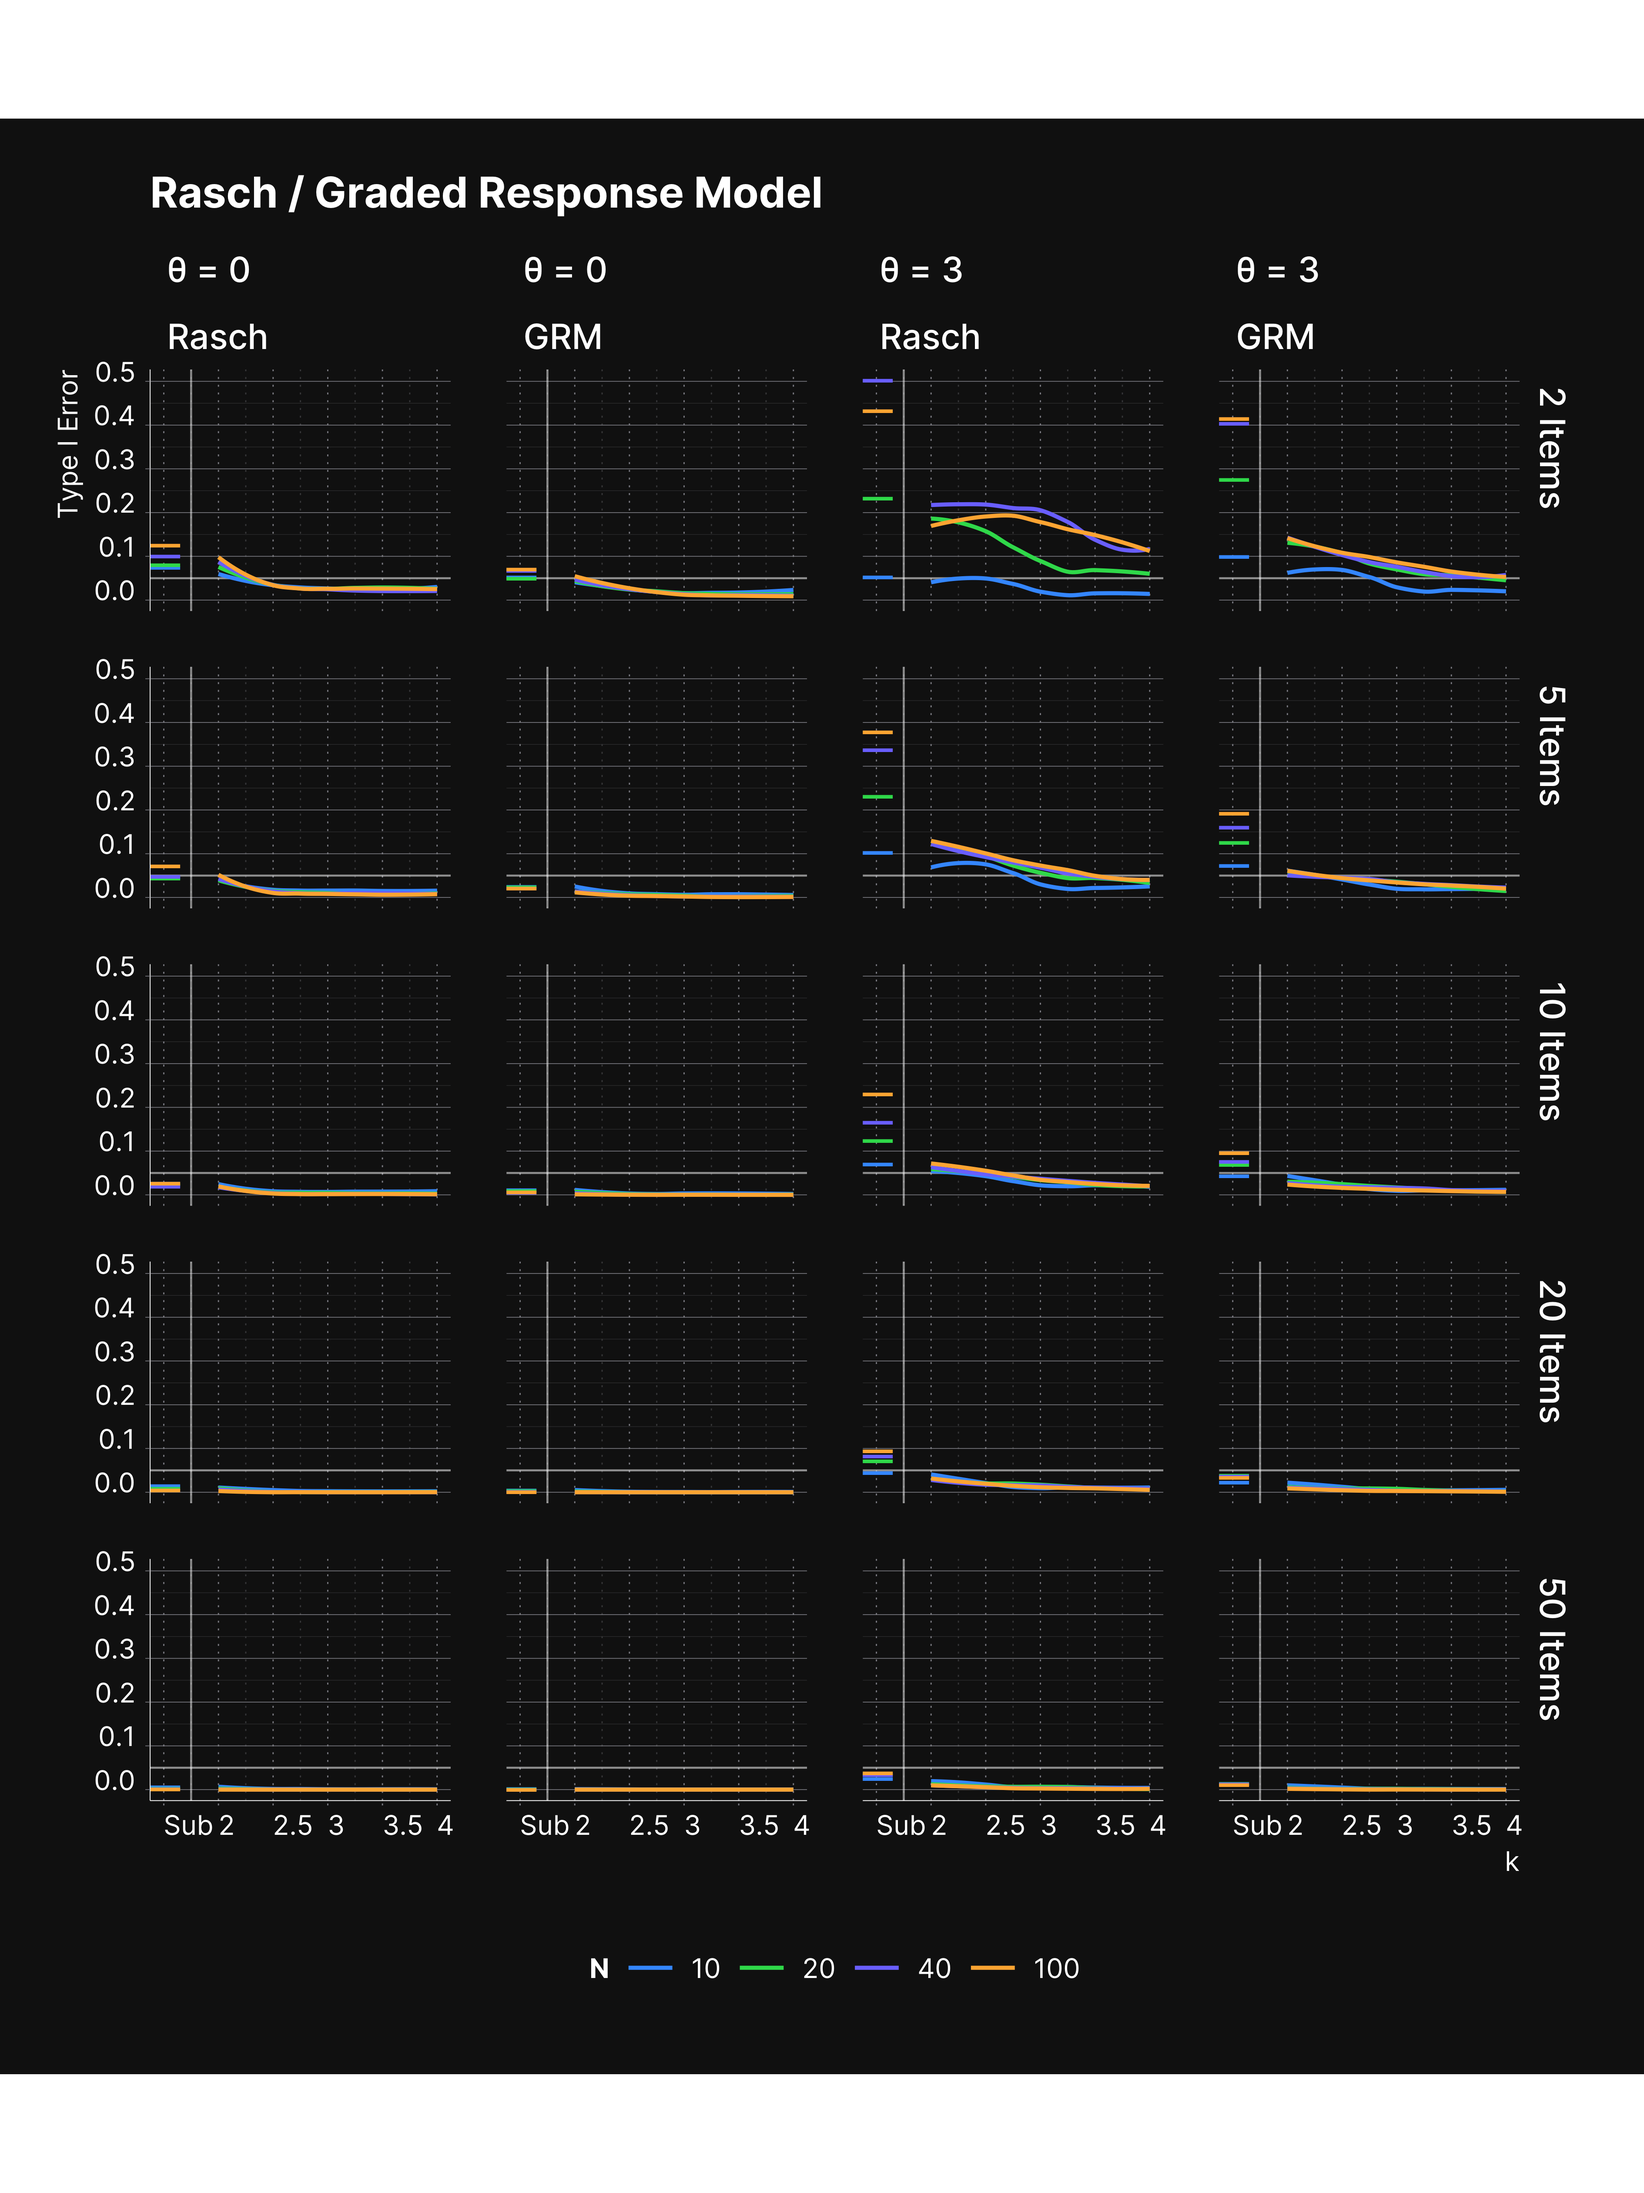
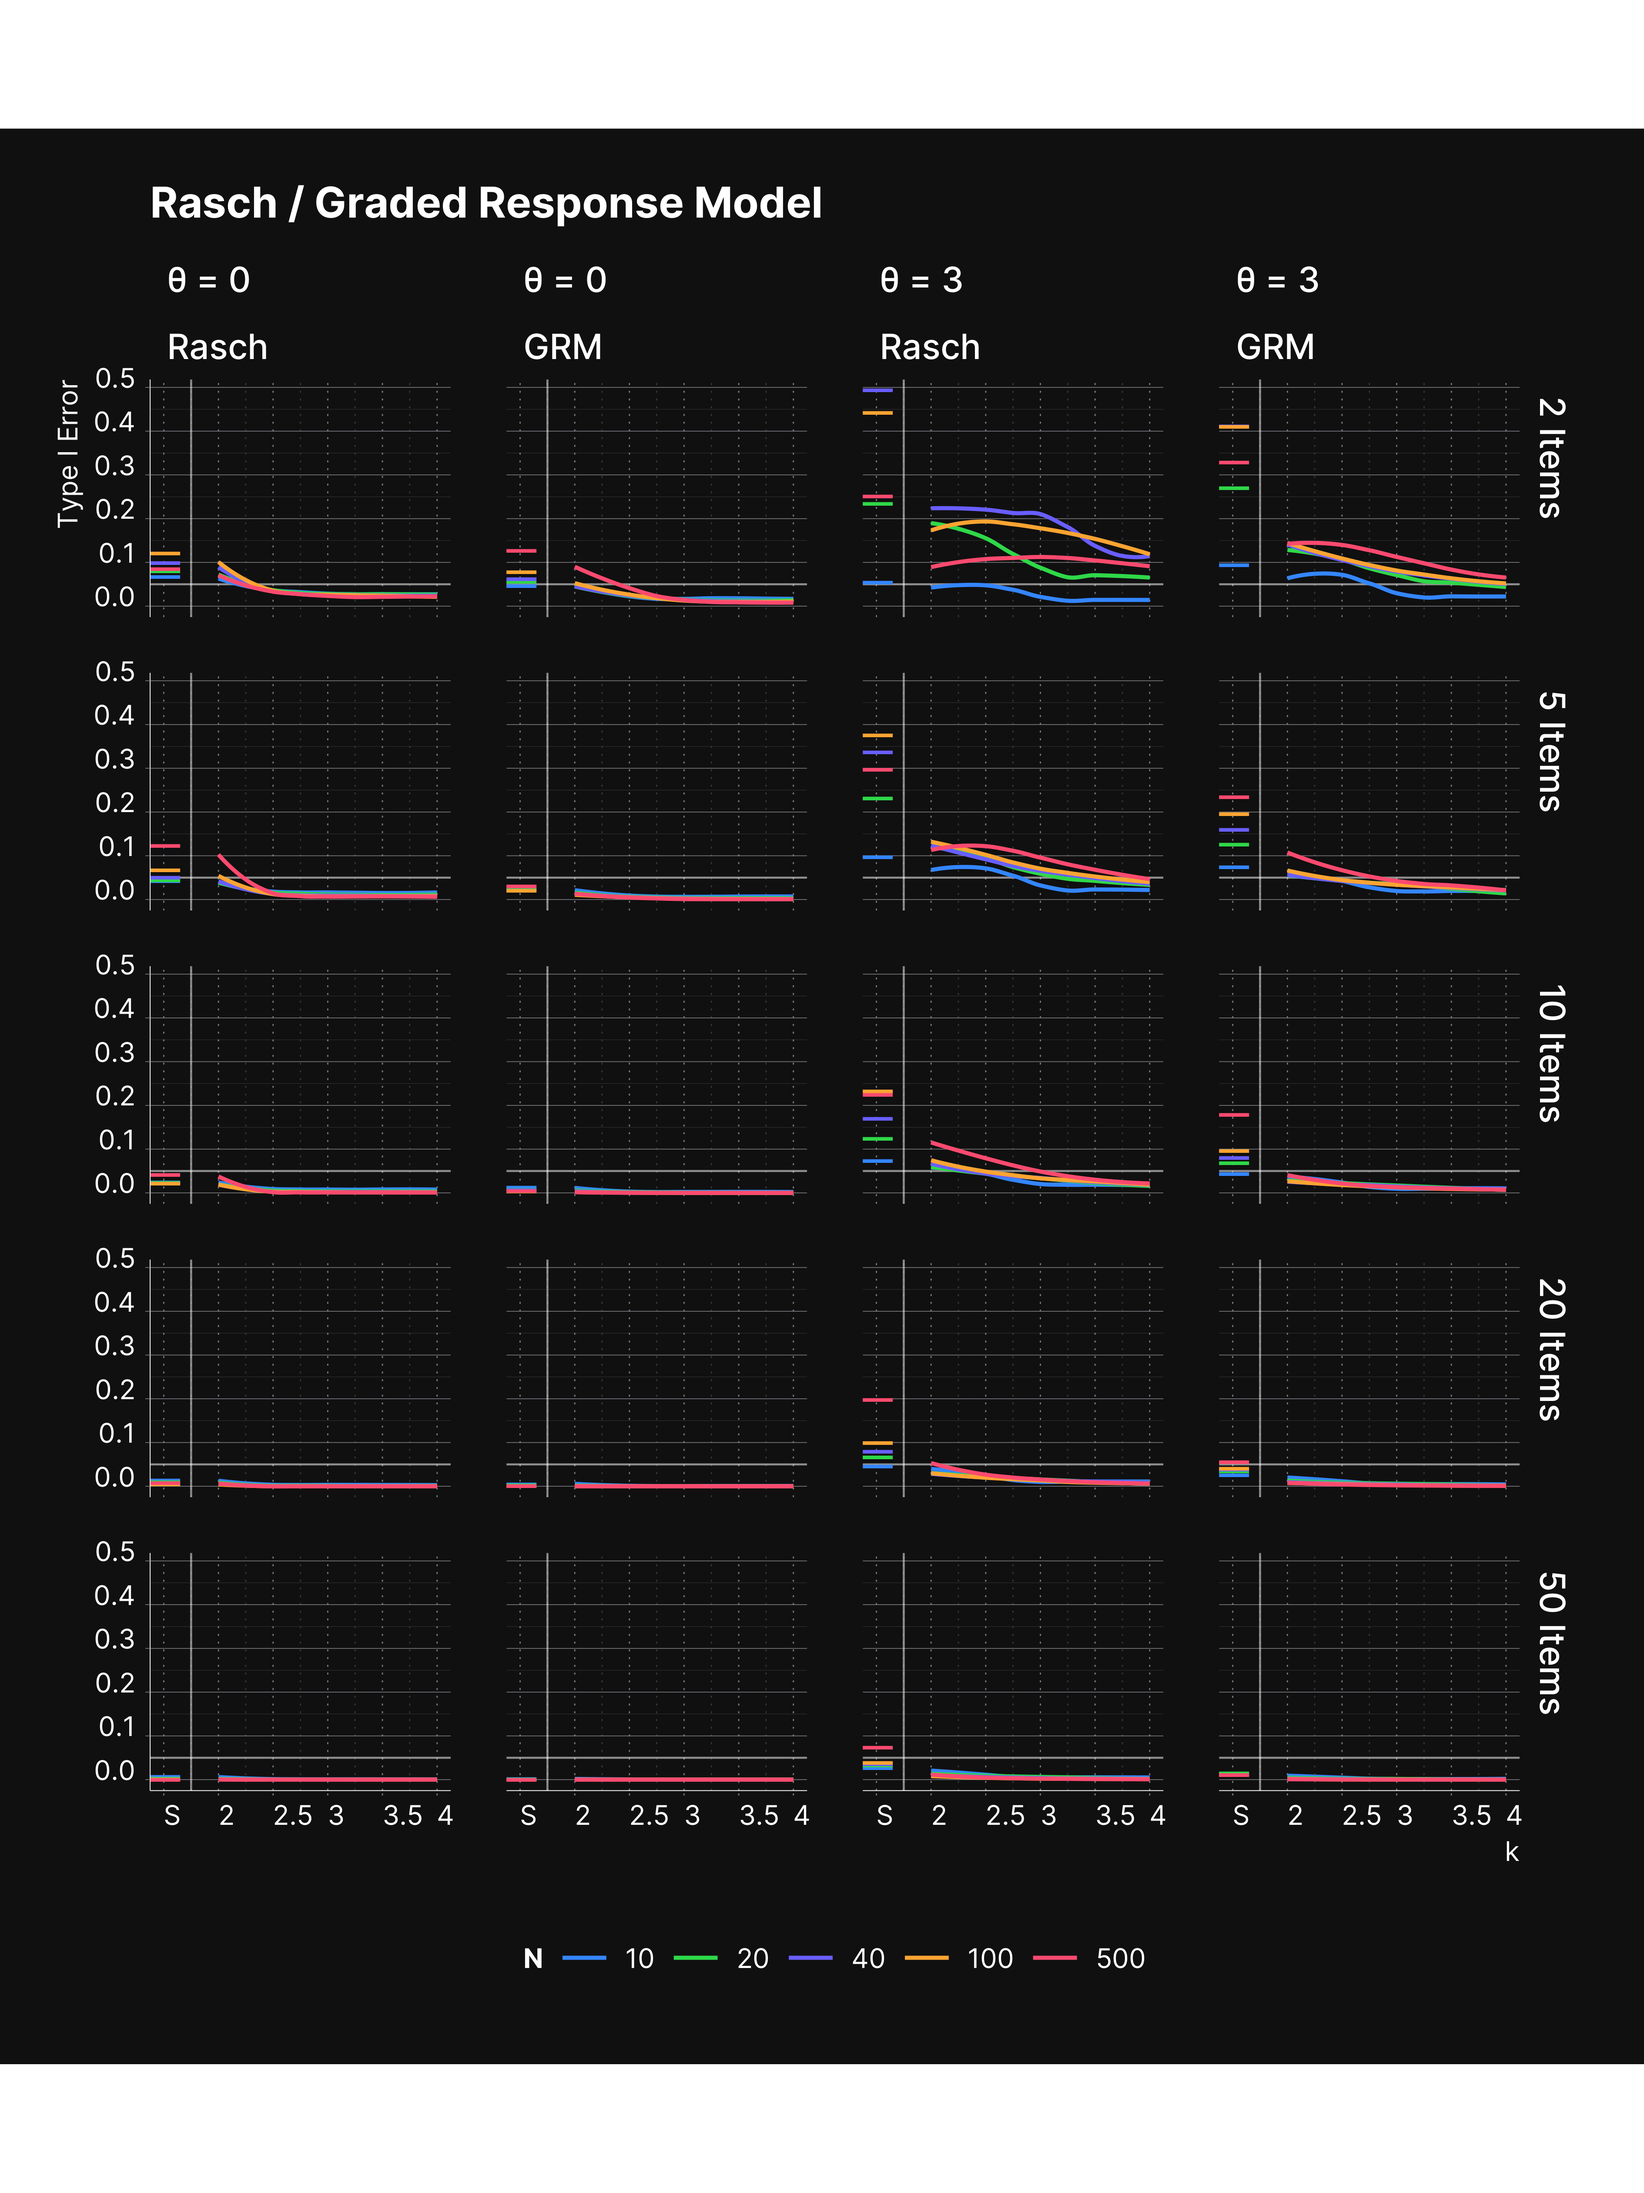
Updated some of the plots with the latest run on Nov 10th

diff --git a/docs/examples/bakker_et_al_2014.md b/docs/examples/bakker_et_al_2014.md
@@ -290,23 +290,40 @@ In the first extension, we introduce a biased journal to the simulation by modif
 
 By varying this configuration, and keeping the rest of the setup intact, we will be able to study the effect of publication bias on our design. Figure 5 shows the results of this modification. As one would expect, we can see higher Type I error in publications as we increase the publication bias rate, from top to bottom. Also, we can see that Type I error rate decreases as we increase the number of items, and examinees, as expected.
 
-=== "θ = 0"
+=== "Rasch, θ = 0"
 	<figure>
 	  <picture>
 	    <source 
-	        srcset="/examples/figures/Bakker_2014/Rasch_GRM_theta_0_dark.png" 
+	        srcset="/examples/figures/Bakker_2014/Rasch_theta_0_dark.png" 
 	        media="(prefers-color-scheme: dark)">
-	  <img src="/examples/figures/Bakker_2014/Rasch_GRM_theta_0_light.png"/><figcaption aria-hidden="true">Chance of finding a significant result with regards to different values of <span class="math inline"><em>α</em></span>.</figcaption>
+	  <img src="/examples/figures/Bakker_2014/Rasch_theta_0_light.png"/><figcaption aria-hidden="true">Chance of finding a significant result with regards to different values of <span class="math inline"><em>α</em></span>.</figcaption>
 	  </picture> 
 	</figure>
-
-=== "θ = 3"
+=== "Rasch, θ = 3"
 	<figure>
 	  <picture>
 	    <source 
-	        srcset="/examples/figures/Bakker_2014/Rasch_GRM_theta_3_dark.png" 
+	        srcset="/examples/figures/Bakker_2014/Rasch_theta_3_dark.png" 
 	        media="(prefers-color-scheme: dark)">
-	  <img src="/examples/figures/Bakker_2014/Rasch_GRM_theta_3_light.png"/><figcaption aria-hidden="true">Chance of finding a significant result with regards to different values of <span class="math inline"><em>α</em></span>.</figcaption>
+	  <img src="/examples/figures/Bakker_2014/Rasch_theta_3_light.png"/><figcaption aria-hidden="true">Chance of finding a significant result with regards to different values of <span class="math inline"><em>α</em></span>.</figcaption>
+	  </picture> 
+	</figure>
+=== "GRM, θ = 0"
+	<figure>
+	  <picture>
+	    <source 
+	        srcset="/examples/figures/Bakker_2014/GRM_theta_0_dark.png" 
+	        media="(prefers-color-scheme: dark)">
+	  <img src="/examples/figures/Bakker_2014/GRM_theta_0_light.png"/><figcaption aria-hidden="true">Chance of finding a significant result with regards to different values of <span class="math inline"><em>α</em></span>.</figcaption>
+	  </picture> 
+	</figure>
+=== "GRM, θ = 3"
+	<figure>
+	  <picture>
+	    <source 
+	        srcset="/examples/figures/Bakker_2014/GRM_theta_3_dark.png" 
+	        media="(prefers-color-scheme: dark)">
+	  <img src="/examples/figures/Bakker_2014/GRM_theta_3_light.png"/><figcaption aria-hidden="true">Chance of finding a significant result with regards to different values of <span class="math inline"><em>α</em></span>.</figcaption>
 	  </picture> 
 	</figure>
 
